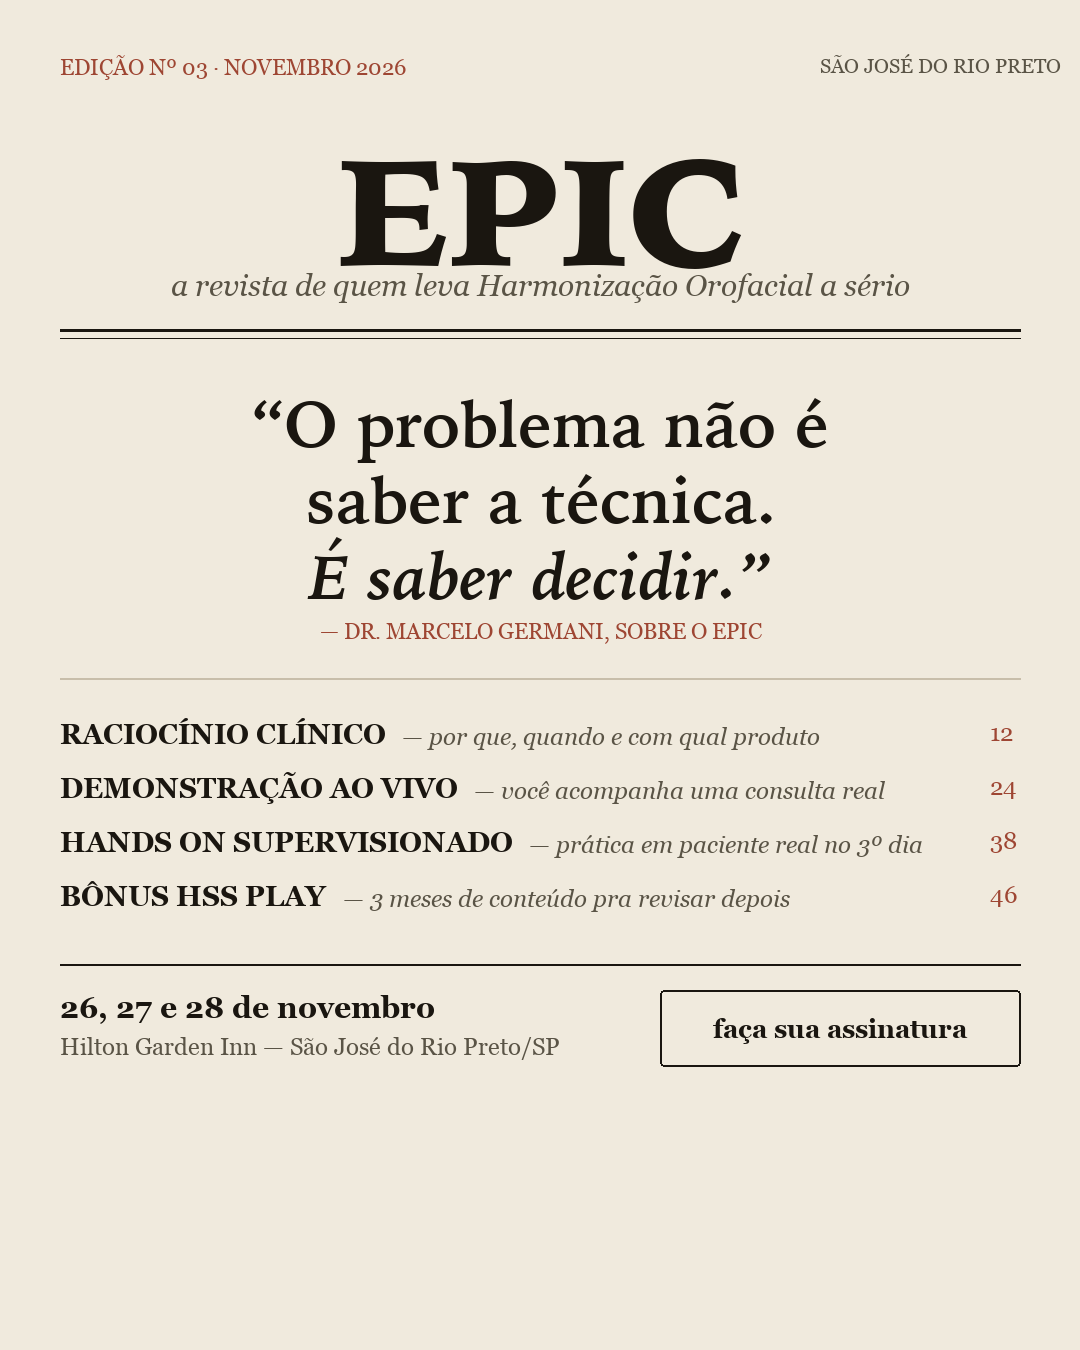
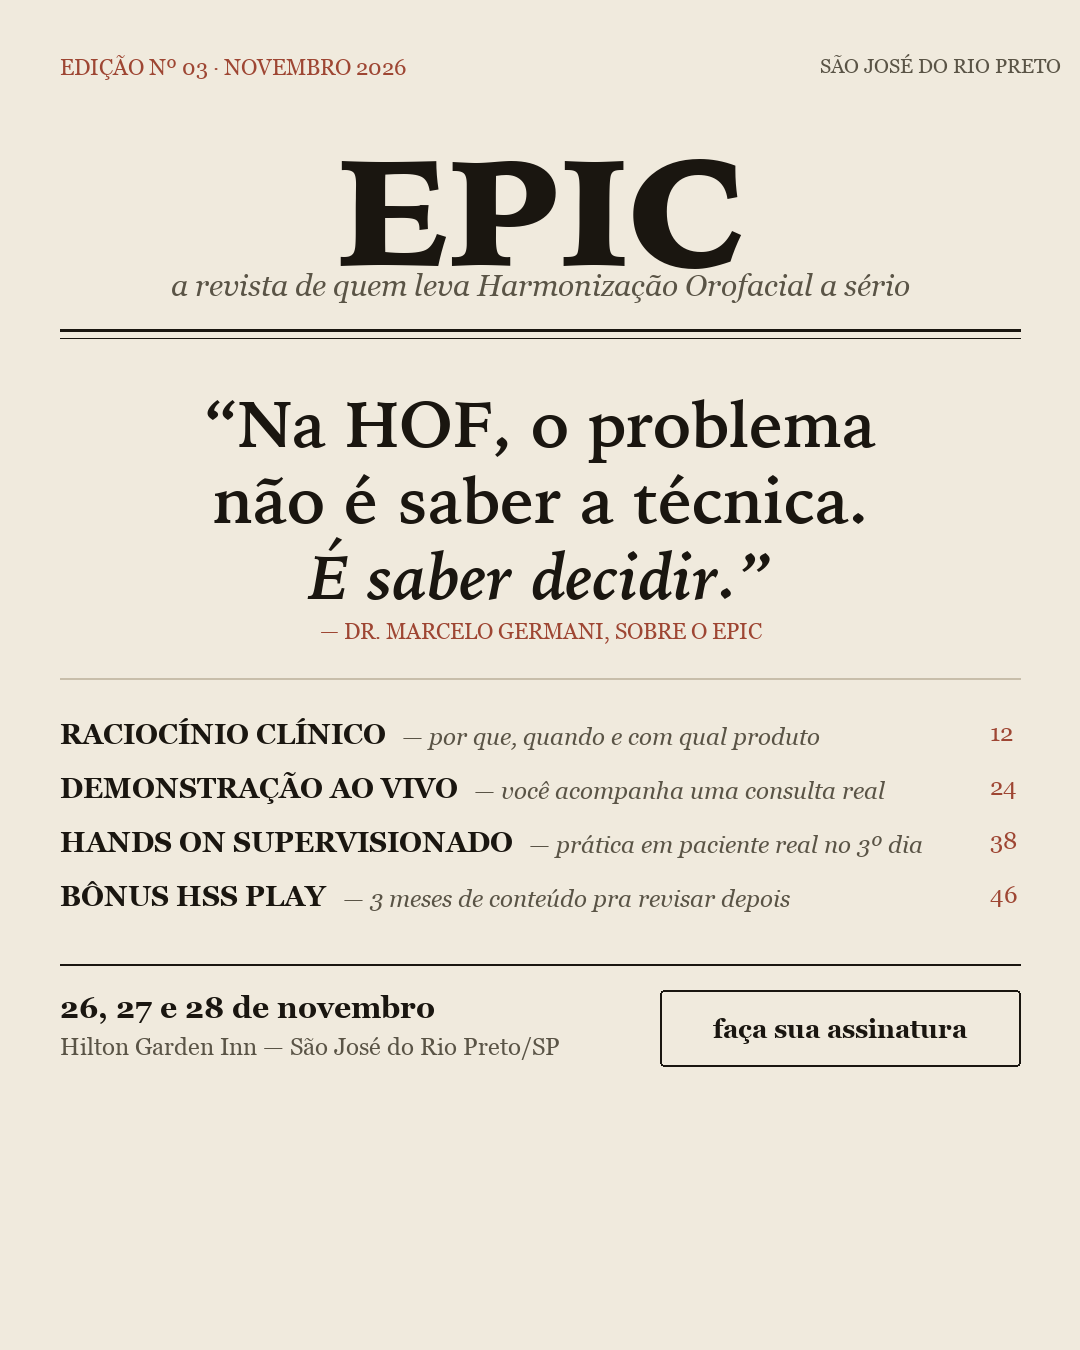
HOF: coloca HOF explicito no headline do poster e da revista (EPIC Nov/26)

Changed region(s): [[0.1833, 0.28, 0.825, 0.4044]]

diff --git a/hof/epic-nov26-criativos/index.html b/hof/epic-nov26-criativos/index.html
@@ -109,7 +109,7 @@ h1{font-size:clamp(32px,4.6vw,46px);line-height:1.05;letter-spacing:-.015em}
   <div class="props">
 
     <article class="prop">
-      <a class="prop-img" href="/criativos/hof-epic-nov26/EPIC01_ALEMDAEXECUCAO.png?v=20261005c" target="_blank" rel="noopener"><img src="/criativos/hof-epic-nov26/EPIC01_ALEMDAEXECUCAO.png?v=20261005c" alt="EPIC01_ALEMDAEXECUCAO" loading="lazy" width="1080" height="1350"></a>
+      <a class="prop-img" href="/criativos/hof-epic-nov26/EPIC01_ALEMDAEXECUCAO.png?v=20261005d" target="_blank" rel="noopener"><img src="/criativos/hof-epic-nov26/EPIC01_ALEMDAEXECUCAO.png?v=20261005d" alt="EPIC01_ALEMDAEXECUCAO" loading="lazy" width="1080" height="1350"></a>
       <div class="prop-top"><span class="t-n">01 · Feed 4:5</span><span class="prop-pub">Já atua — ir além</span></div>
       <h4>Saber executar não é o mesmo que saber decidir</h4>
       <span class="prop-arq">EPIC01_ALEMDAEXECUCAO.png · Dourado</span>
@@ -119,7 +119,7 @@ h1{font-size:clamp(32px,4.6vw,46px);line-height:1.05;letter-spacing:-.015em}
     </article>
 
     <article class="prop">
-      <a class="prop-img" href="/criativos/hof-epic-nov26/EPIC02_COMOPORQUE.png?v=20261005c" target="_blank" rel="noopener"><img src="/criativos/hof-epic-nov26/EPIC02_COMOPORQUE.png?v=20261005c" alt="EPIC02_COMOPORQUE" loading="lazy" width="1080" height="1080"></a>
+      <a class="prop-img" href="/criativos/hof-epic-nov26/EPIC02_COMOPORQUE.png?v=20261005d" target="_blank" rel="noopener"><img src="/criativos/hof-epic-nov26/EPIC02_COMOPORQUE.png?v=20261005d" alt="EPIC02_COMOPORQUE" loading="lazy" width="1080" height="1080"></a>
       <div class="prop-top"><span class="t-n">02 · Feed 1:1</span><span class="prop-pub">Já atua — evoluir planejamento</span></div>
       <h4>Do "como fazer" para o "por que fazer"</h4>
       <span class="prop-arq">EPIC02_COMOPORQUE.png · Verde-petróleo</span>
@@ -129,7 +129,7 @@ h1{font-size:clamp(32px,4.6vw,46px);line-height:1.05;letter-spacing:-.015em}
     </article>
 
     <article class="prop">
-      <a class="prop-img" href="/criativos/hof-epic-nov26/EPIC03_NAOPRECISASABER.png?v=20261005c" target="_blank" rel="noopener"><img src="/criativos/hof-epic-nov26/EPIC03_NAOPRECISASABER.png?v=20261005c" alt="EPIC03_NAOPRECISASABER" loading="lazy" width="1080" height="1920"></a>
+      <a class="prop-img" href="/criativos/hof-epic-nov26/EPIC03_NAOPRECISASABER.png?v=20261005d" target="_blank" rel="noopener"><img src="/criativos/hof-epic-nov26/EPIC03_NAOPRECISASABER.png?v=20261005d" alt="EPIC03_NAOPRECISASABER" loading="lazy" width="1080" height="1920"></a>
       <div class="prop-top"><span class="t-n">03 · Story/Reels 9:16</span><span class="prop-pub">Iniciante</span></div>
       <h4>Você não precisa chegar já sabendo tudo</h4>
       <span class="prop-arq">EPIC03_NAOPRECISASABER.png · Terracota</span>
@@ -139,7 +139,7 @@ h1{font-size:clamp(32px,4.6vw,46px);line-height:1.05;letter-spacing:-.015em}
     </article>
 
     <article class="prop">
-      <a class="prop-img" href="/criativos/hof-epic-nov26/EPIC04_LINHADOTEMPO3DIAS.png?v=20261005c" target="_blank" rel="noopener"><img src="/criativos/hof-epic-nov26/EPIC04_LINHADOTEMPO3DIAS.png?v=20261005c" alt="EPIC04_LINHADOTEMPO3DIAS" loading="lazy" width="1080" height="1350"></a>
+      <a class="prop-img" href="/criativos/hof-epic-nov26/EPIC04_LINHADOTEMPO3DIAS.png?v=20261005d" target="_blank" rel="noopener"><img src="/criativos/hof-epic-nov26/EPIC04_LINHADOTEMPO3DIAS.png?v=20261005d" alt="EPIC04_LINHADOTEMPO3DIAS" loading="lazy" width="1080" height="1350"></a>
       <div class="prop-top"><span class="t-n">04 · Feed 4:5</span><span class="prop-pub">Já atua — ir além</span></div>
       <h4>Anatomia + raciocínio clínico + prática supervisionada</h4>
       <span class="prop-arq">EPIC04_LINHADOTEMPO3DIAS.png · Verde-petróleo</span>
@@ -149,7 +149,7 @@ h1{font-size:clamp(32px,4.6vw,46px);line-height:1.05;letter-spacing:-.015em}
     </article>
 
     <article class="prop">
-      <a class="prop-img" href="/criativos/hof-epic-nov26/EPIC05_BASESOLIDA.png?v=20261005c" target="_blank" rel="noopener"><img src="/criativos/hof-epic-nov26/EPIC05_BASESOLIDA.png?v=20261005c" alt="EPIC05_BASESOLIDA" loading="lazy" width="1080" height="1080"></a>
+      <a class="prop-img" href="/criativos/hof-epic-nov26/EPIC05_BASESOLIDA.png?v=20261005d" target="_blank" rel="noopener"><img src="/criativos/hof-epic-nov26/EPIC05_BASESOLIDA.png?v=20261005d" alt="EPIC05_BASESOLIDA" loading="lazy" width="1080" height="1080"></a>
       <div class="prop-top"><span class="t-n">05 · Feed 1:1</span><span class="prop-pub">Iniciante</span></div>
       <h4>Base sólida desde o primeiro procedimento</h4>
       <span class="prop-arq">EPIC05_BASESOLIDA.png · Terracota</span>
@@ -159,7 +159,7 @@ h1{font-size:clamp(32px,4.6vw,46px);line-height:1.05;letter-spacing:-.015em}
     </article>
 
     <article class="prop">
-      <a class="prop-img" href="/criativos/hof-epic-nov26/EPIC06_QUALPRODUTO.png?v=20261005c" target="_blank" rel="noopener"><img src="/criativos/hof-epic-nov26/EPIC06_QUALPRODUTO.png?v=20261005c" alt="EPIC06_QUALPRODUTO" loading="lazy" width="1080" height="1920"></a>
+      <a class="prop-img" href="/criativos/hof-epic-nov26/EPIC06_QUALPRODUTO.png?v=20261005d" target="_blank" rel="noopener"><img src="/criativos/hof-epic-nov26/EPIC06_QUALPRODUTO.png?v=20261005d" alt="EPIC06_QUALPRODUTO" loading="lazy" width="1080" height="1920"></a>
       <div class="prop-top"><span class="t-n">06 · Story/Reels 9:16</span><span class="prop-pub">Já atua — evoluir planejamento</span></div>
       <h4>Qual produto, quando usar e quando não usar</h4>
       <span class="prop-arq">EPIC06_QUALPRODUTO.png · Dourado</span>
@@ -169,7 +169,7 @@ h1{font-size:clamp(32px,4.6vw,46px);line-height:1.05;letter-spacing:-.015em}
     </article>
 
     <article class="prop">
-      <a class="prop-img" href="/criativos/hof-epic-nov26/EPIC07_DEMOAOVIVO.png?v=20261005c" target="_blank" rel="noopener"><img src="/criativos/hof-epic-nov26/EPIC07_DEMOAOVIVO.png?v=20261005c" alt="EPIC07_DEMOAOVIVO" loading="lazy" width="1080" height="1350"></a>
+      <a class="prop-img" href="/criativos/hof-epic-nov26/EPIC07_DEMOAOVIVO.png?v=20261005d" target="_blank" rel="noopener"><img src="/criativos/hof-epic-nov26/EPIC07_DEMOAOVIVO.png?v=20261005d" alt="EPIC07_DEMOAOVIVO" loading="lazy" width="1080" height="1350"></a>
       <div class="prop-top"><span class="t-n">07 · Feed 4:5</span><span class="prop-pub">Todos — autoridade</span></div>
       <h4>Você vê o Dr. Marcelo atendendo pacientes ao vivo</h4>
       <span class="prop-arq">EPIC07_DEMOAOVIVO.png · Terracota</span>
@@ -179,7 +179,7 @@ h1{font-size:clamp(32px,4.6vw,46px);line-height:1.05;letter-spacing:-.015em}
     </article>
 
     <article class="prop">
-      <a class="prop-img" href="/criativos/hof-epic-nov26/EPIC08_ENTENDEVEFAZ.png?v=20261005c" target="_blank" rel="noopener"><img src="/criativos/hof-epic-nov26/EPIC08_ENTENDEVEFAZ.png?v=20261005c" alt="EPIC08_ENTENDEVEFAZ" loading="lazy" width="1080" height="1080"></a>
+      <a class="prop-img" href="/criativos/hof-epic-nov26/EPIC08_ENTENDEVEFAZ.png?v=20261005d" target="_blank" rel="noopener"><img src="/criativos/hof-epic-nov26/EPIC08_ENTENDEVEFAZ.png?v=20261005d" alt="EPIC08_ENTENDEVEFAZ" loading="lazy" width="1080" height="1080"></a>
       <div class="prop-top"><span class="t-n">08 · Feed 1:1</span><span class="prop-pub">Iniciante</span></div>
       <h4>Primeiro você entende. Depois você vê. Então você faz.</h4>
       <span class="prop-arq">EPIC08_ENTENDEVEFAZ.png · Dourado</span>
@@ -189,7 +189,7 @@ h1{font-size:clamp(32px,4.6vw,46px);line-height:1.05;letter-spacing:-.015em}
     </article>
 
     <article class="prop">
-      <a class="prop-img" href="/criativos/hof-epic-nov26/EPIC09_EXECUTARXENTENDER.png?v=20261005c" target="_blank" rel="noopener"><img src="/criativos/hof-epic-nov26/EPIC09_EXECUTARXENTENDER.png?v=20261005c" alt="EPIC09_EXECUTARXENTENDER" loading="lazy" width="1080" height="1920"></a>
+      <a class="prop-img" href="/criativos/hof-epic-nov26/EPIC09_EXECUTARXENTENDER.png?v=20261005d" target="_blank" rel="noopener"><img src="/criativos/hof-epic-nov26/EPIC09_EXECUTARXENTENDER.png?v=20261005d" alt="EPIC09_EXECUTARXENTENDER" loading="lazy" width="1080" height="1920"></a>
       <div class="prop-top"><span class="t-n">09 · Story/Reels 9:16</span><span class="prop-pub">Já atua — ir além</span></div>
       <h4>O que separa quem executa de quem realmente entende</h4>
       <span class="prop-arq">EPIC09_EXECUTARXENTENDER.png · Verde-petróleo</span>
@@ -199,7 +199,7 @@ h1{font-size:clamp(32px,4.6vw,46px);line-height:1.05;letter-spacing:-.015em}
     </article>
 
     <article class="prop">
-      <a class="prop-img" href="/criativos/hof-epic-nov26/EPIC10_BONUSHSSPLAY.png?v=20261005c" target="_blank" rel="noopener"><img src="/criativos/hof-epic-nov26/EPIC10_BONUSHSSPLAY.png?v=20261005c" alt="EPIC10_BONUSHSSPLAY" loading="lazy" width="1080" height="1350"></a>
+      <a class="prop-img" href="/criativos/hof-epic-nov26/EPIC10_BONUSHSSPLAY.png?v=20261005d" target="_blank" rel="noopener"><img src="/criativos/hof-epic-nov26/EPIC10_BONUSHSSPLAY.png?v=20261005d" alt="EPIC10_BONUSHSSPLAY" loading="lazy" width="1080" height="1350"></a>
       <div class="prop-top"><span class="t-n">10 · Feed 4:5</span><span class="prop-pub">Todos — bônus</span></div>
       <h4>3 dias presenciais + 3 meses de conteúdo pra revisar depois</h4>
       <span class="prop-arq">EPIC10_BONUSHSSPLAY.png · Dourado</span>
@@ -217,7 +217,7 @@ h1{font-size:clamp(32px,4.6vw,46px);line-height:1.05;letter-spacing:-.015em}
   <div class="conceitos">
 
     <article class="conc">
-      <a class="conc-img" href="/criativos/hof-epic-nov26/EPICX_TWEET.png?v=20261005c" target="_blank" rel="noopener"><img src="/criativos/hof-epic-nov26/EPICX_TWEET.png?v=20261005c" alt="Conceito tweet" loading="lazy"></a>
+      <a class="conc-img" href="/criativos/hof-epic-nov26/EPICX_TWEET.png?v=20261005d" target="_blank" rel="noopener"><img src="/criativos/hof-epic-nov26/EPICX_TWEET.png?v=20261005d" alt="Conceito tweet" loading="lazy"></a>
       <div class="conc-body">
         <h4>1 · Print de tweet (X/Twitter)</h4>
         <p>Simula um post antigo do Twitter do próprio Dr. Marcelo, com quote-card da oferta embutido. Formato 1080×960, EPICX_TWEET.png.</p>
@@ -225,7 +225,7 @@ h1{font-size:clamp(32px,4.6vw,46px);line-height:1.05;letter-spacing:-.015em}
     </article>
 
     <article class="conc">
-      <a class="conc-img" href="/criativos/hof-epic-nov26/EPICX_POSTER.png?v=20261005c" target="_blank" rel="noopener"><img src="/criativos/hof-epic-nov26/EPICX_POSTER.png?v=20261005c" alt="Conceito poster tipográfico" loading="lazy"></a>
+      <a class="conc-img" href="/criativos/hof-epic-nov26/EPICX_POSTER.png?v=20261005d" target="_blank" rel="noopener"><img src="/criativos/hof-epic-nov26/EPICX_POSTER.png?v=20261005d" alt="Conceito poster tipográfico" loading="lazy"></a>
       <div class="conc-body">
         <h4>2 · Poster tipográfico</h4>
         <p>Só logo + tipografia grande sobre gradiente verde-petróleo, sem nenhum elemento de foto — estética de poster editorial. Formato 1080×1350, EPICX_POSTER.png.</p>
@@ -233,7 +233,7 @@ h1{font-size:clamp(32px,4.6vw,46px);line-height:1.05;letter-spacing:-.015em}
     </article>
 
     <article class="conc">
-      <a class="conc-img" href="/criativos/hof-epic-nov26/EPICX_WHATSAPP.png?v=20261005c" target="_blank" rel="noopener"><img src="/criativos/hof-epic-nov26/EPICX_WHATSAPP.png?v=20261005c" alt="Conceito WhatsApp" loading="lazy"></a>
+      <a class="conc-img" href="/criativos/hof-epic-nov26/EPICX_WHATSAPP.png?v=20261005d" target="_blank" rel="noopener"><img src="/criativos/hof-epic-nov26/EPICX_WHATSAPP.png?v=20261005d" alt="Conceito WhatsApp" loading="lazy"></a>
       <div class="conc-body">
         <h4>3 · Print de conversa no WhatsApp</h4>
         <p>Mockup de chat (cabeçalho, bolhas, confirmação de leitura, campo de resposta) simulando a abordagem que o cliente recebe de verdade. Formato 1080×1460, EPICX_WHATSAPP.png.</p>
@@ -241,7 +241,7 @@ h1{font-size:clamp(32px,4.6vw,46px);line-height:1.05;letter-spacing:-.015em}
     </article>
 
     <article class="conc">
-      <a class="conc-img" href="/criativos/hof-epic-nov26/EPICX_NEWS.png?v=20261005c" target="_blank" rel="noopener"><img src="/criativos/hof-epic-nov26/EPICX_NEWS.png?v=20261005c" alt="Conceito breaking news" loading="lazy"></a>
+      <a class="conc-img" href="/criativos/hof-epic-nov26/EPICX_NEWS.png?v=20261005d" target="_blank" rel="noopener"><img src="/criativos/hof-epic-nov26/EPICX_NEWS.png?v=20261005d" alt="Conceito breaking news" loading="lazy"></a>
       <div class="conc-body">
         <h4>4 · Breaking news / última chamada</h4>
         <p>Linguagem de telejornal — faixa vermelha "PRESENCIAL" com pino de localização, tipografia condensada em caixa alta, rodapé tipo ticker de notícia. Formato 1080×1080, EPICX_NEWS.png.</p>
@@ -249,7 +249,7 @@ h1{font-size:clamp(32px,4.6vw,46px);line-height:1.05;letter-spacing:-.015em}
     </article>
 
     <article class="conc">
-      <a class="conc-img" href="/criativos/hof-epic-nov26/EPICX_MAGAZINE.png?v=20261005c" target="_blank" rel="noopener"><img src="/criativos/hof-epic-nov26/EPICX_MAGAZINE.png?v=20261005c" alt="Conceito capa de revista" loading="lazy"></a>
+      <a class="conc-img" href="/criativos/hof-epic-nov26/EPICX_MAGAZINE.png?v=20261005d" target="_blank" rel="noopener"><img src="/criativos/hof-epic-nov26/EPICX_MAGAZINE.png?v=20261005d" alt="Conceito capa de revista" loading="lazy"></a>
       <div class="conc-body">
         <h4>5 · Capa de revista</h4>
         <p>Masthead serifado, pull-quote editorial e cover-lines como manchete de revista — tom premium, fundo creme, zero dark mode. Formato 1080×1350, EPICX_MAGAZINE.png.</p>
